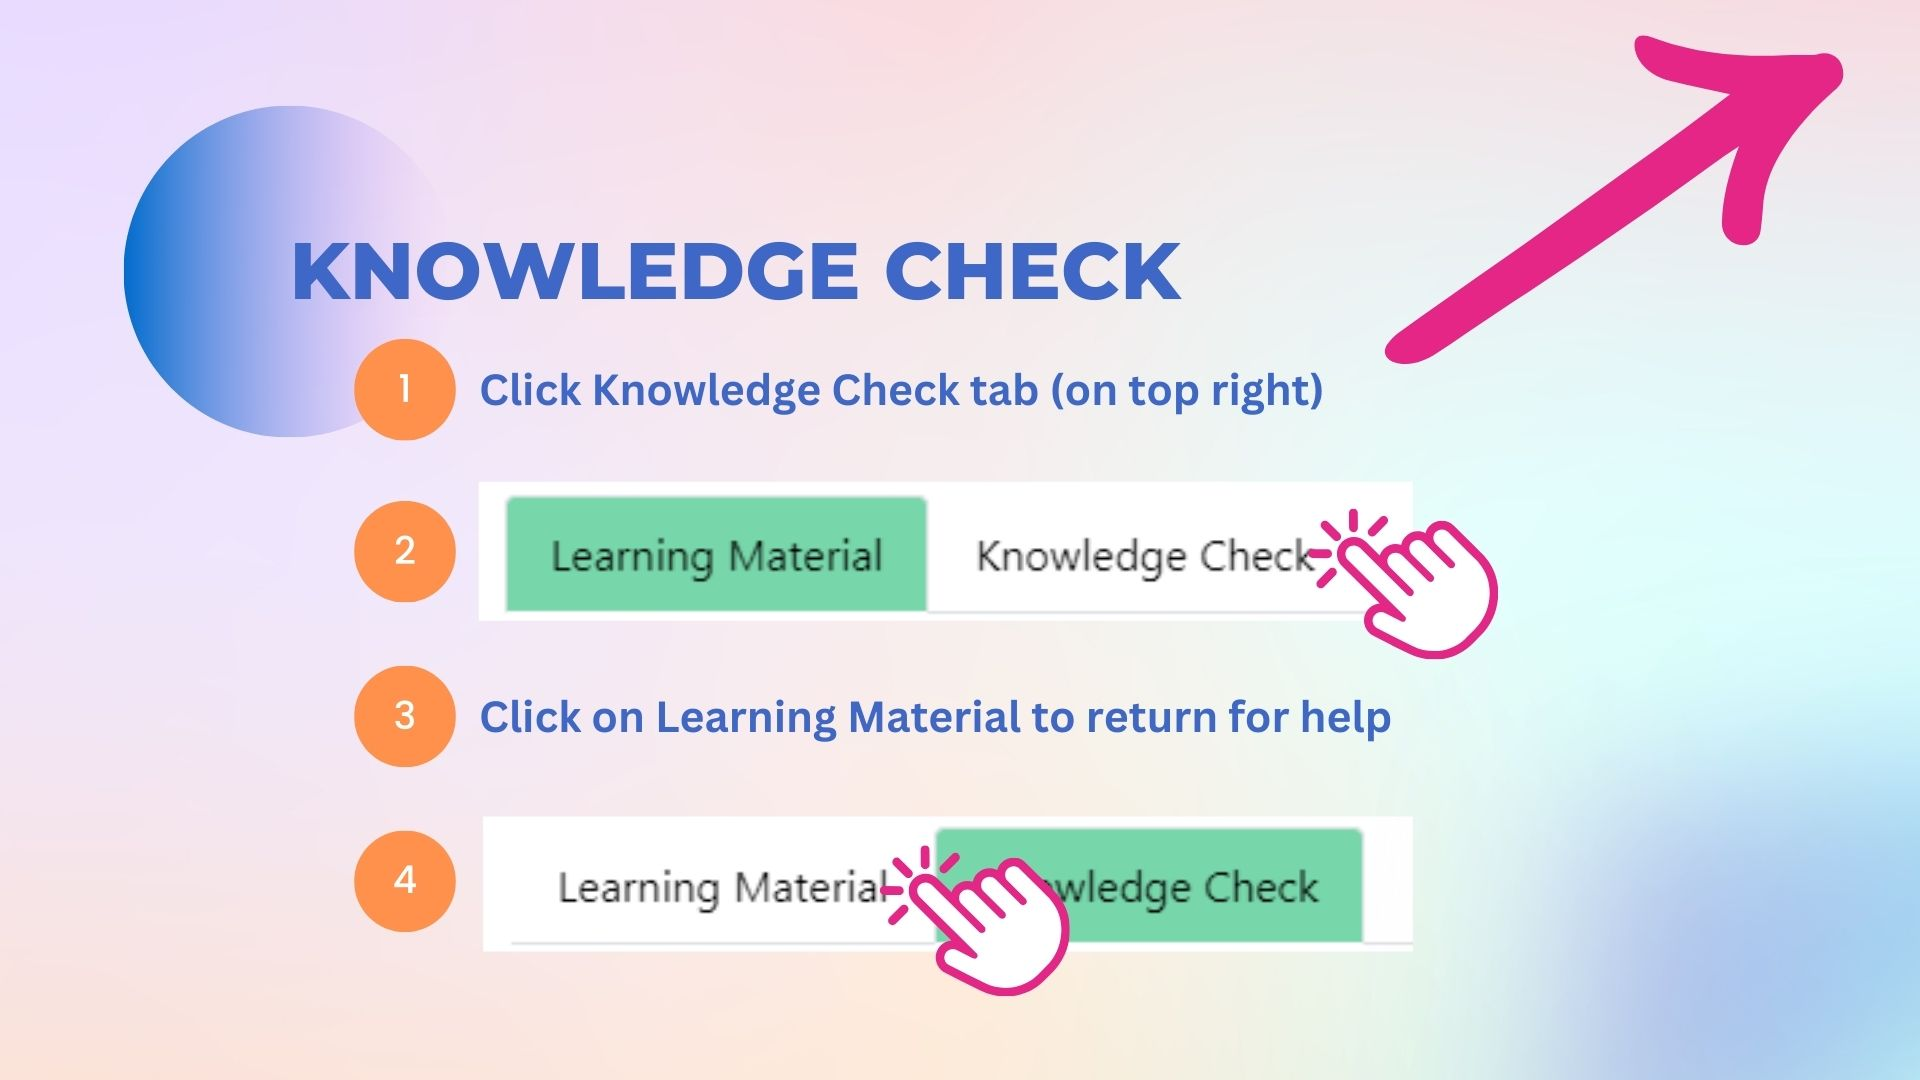
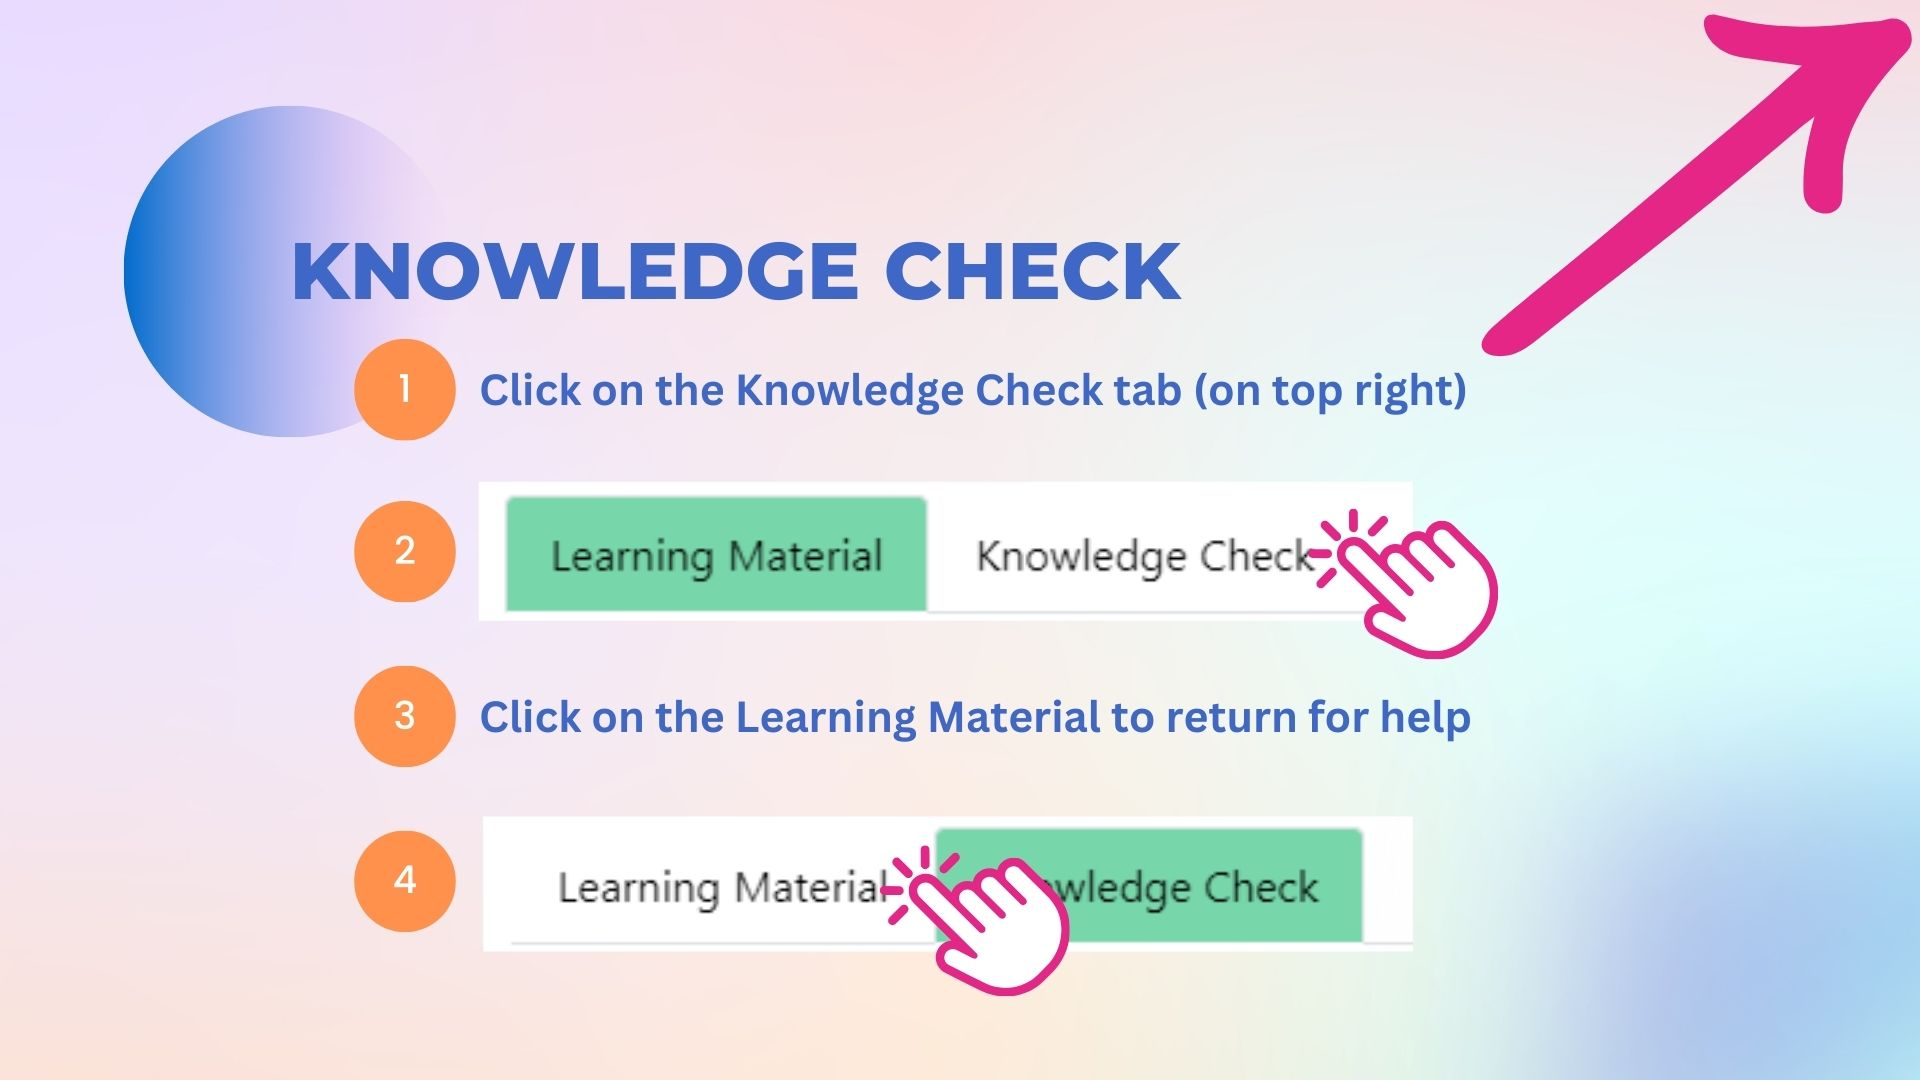
updated knowledge check slide and content

Changed region(s): [[0.3125, 0.0, 1.0, 0.3972], [0.3438, 0.6417, 0.7812, 0.7028]]

diff --git a/ComputerHarware/index.htm b/ComputerHarware/index.htm
@@ -205,8 +205,9 @@
             <h2>Congratulations!</h2>
             <p>What is next for you? Let's do a knowledge check to see if you completely grasped the concepts you
               just learned.<br/><br/>
-            It is extremely important you understand them as you continue your learning journey ahead.<br/><br/>
-            If you require any help please contact us in any of the Chat Groups.</p>
+            1. Click on the Knowledge Check tab on the top right of your screen and take the quiz.<br/><br/>
+            2. Click on the Learning Material to return for any help.<br/><br/>
+            If you require additional help please reach out in any of the Chat Groups.</p>
           </section>
         </div>
       </div>
